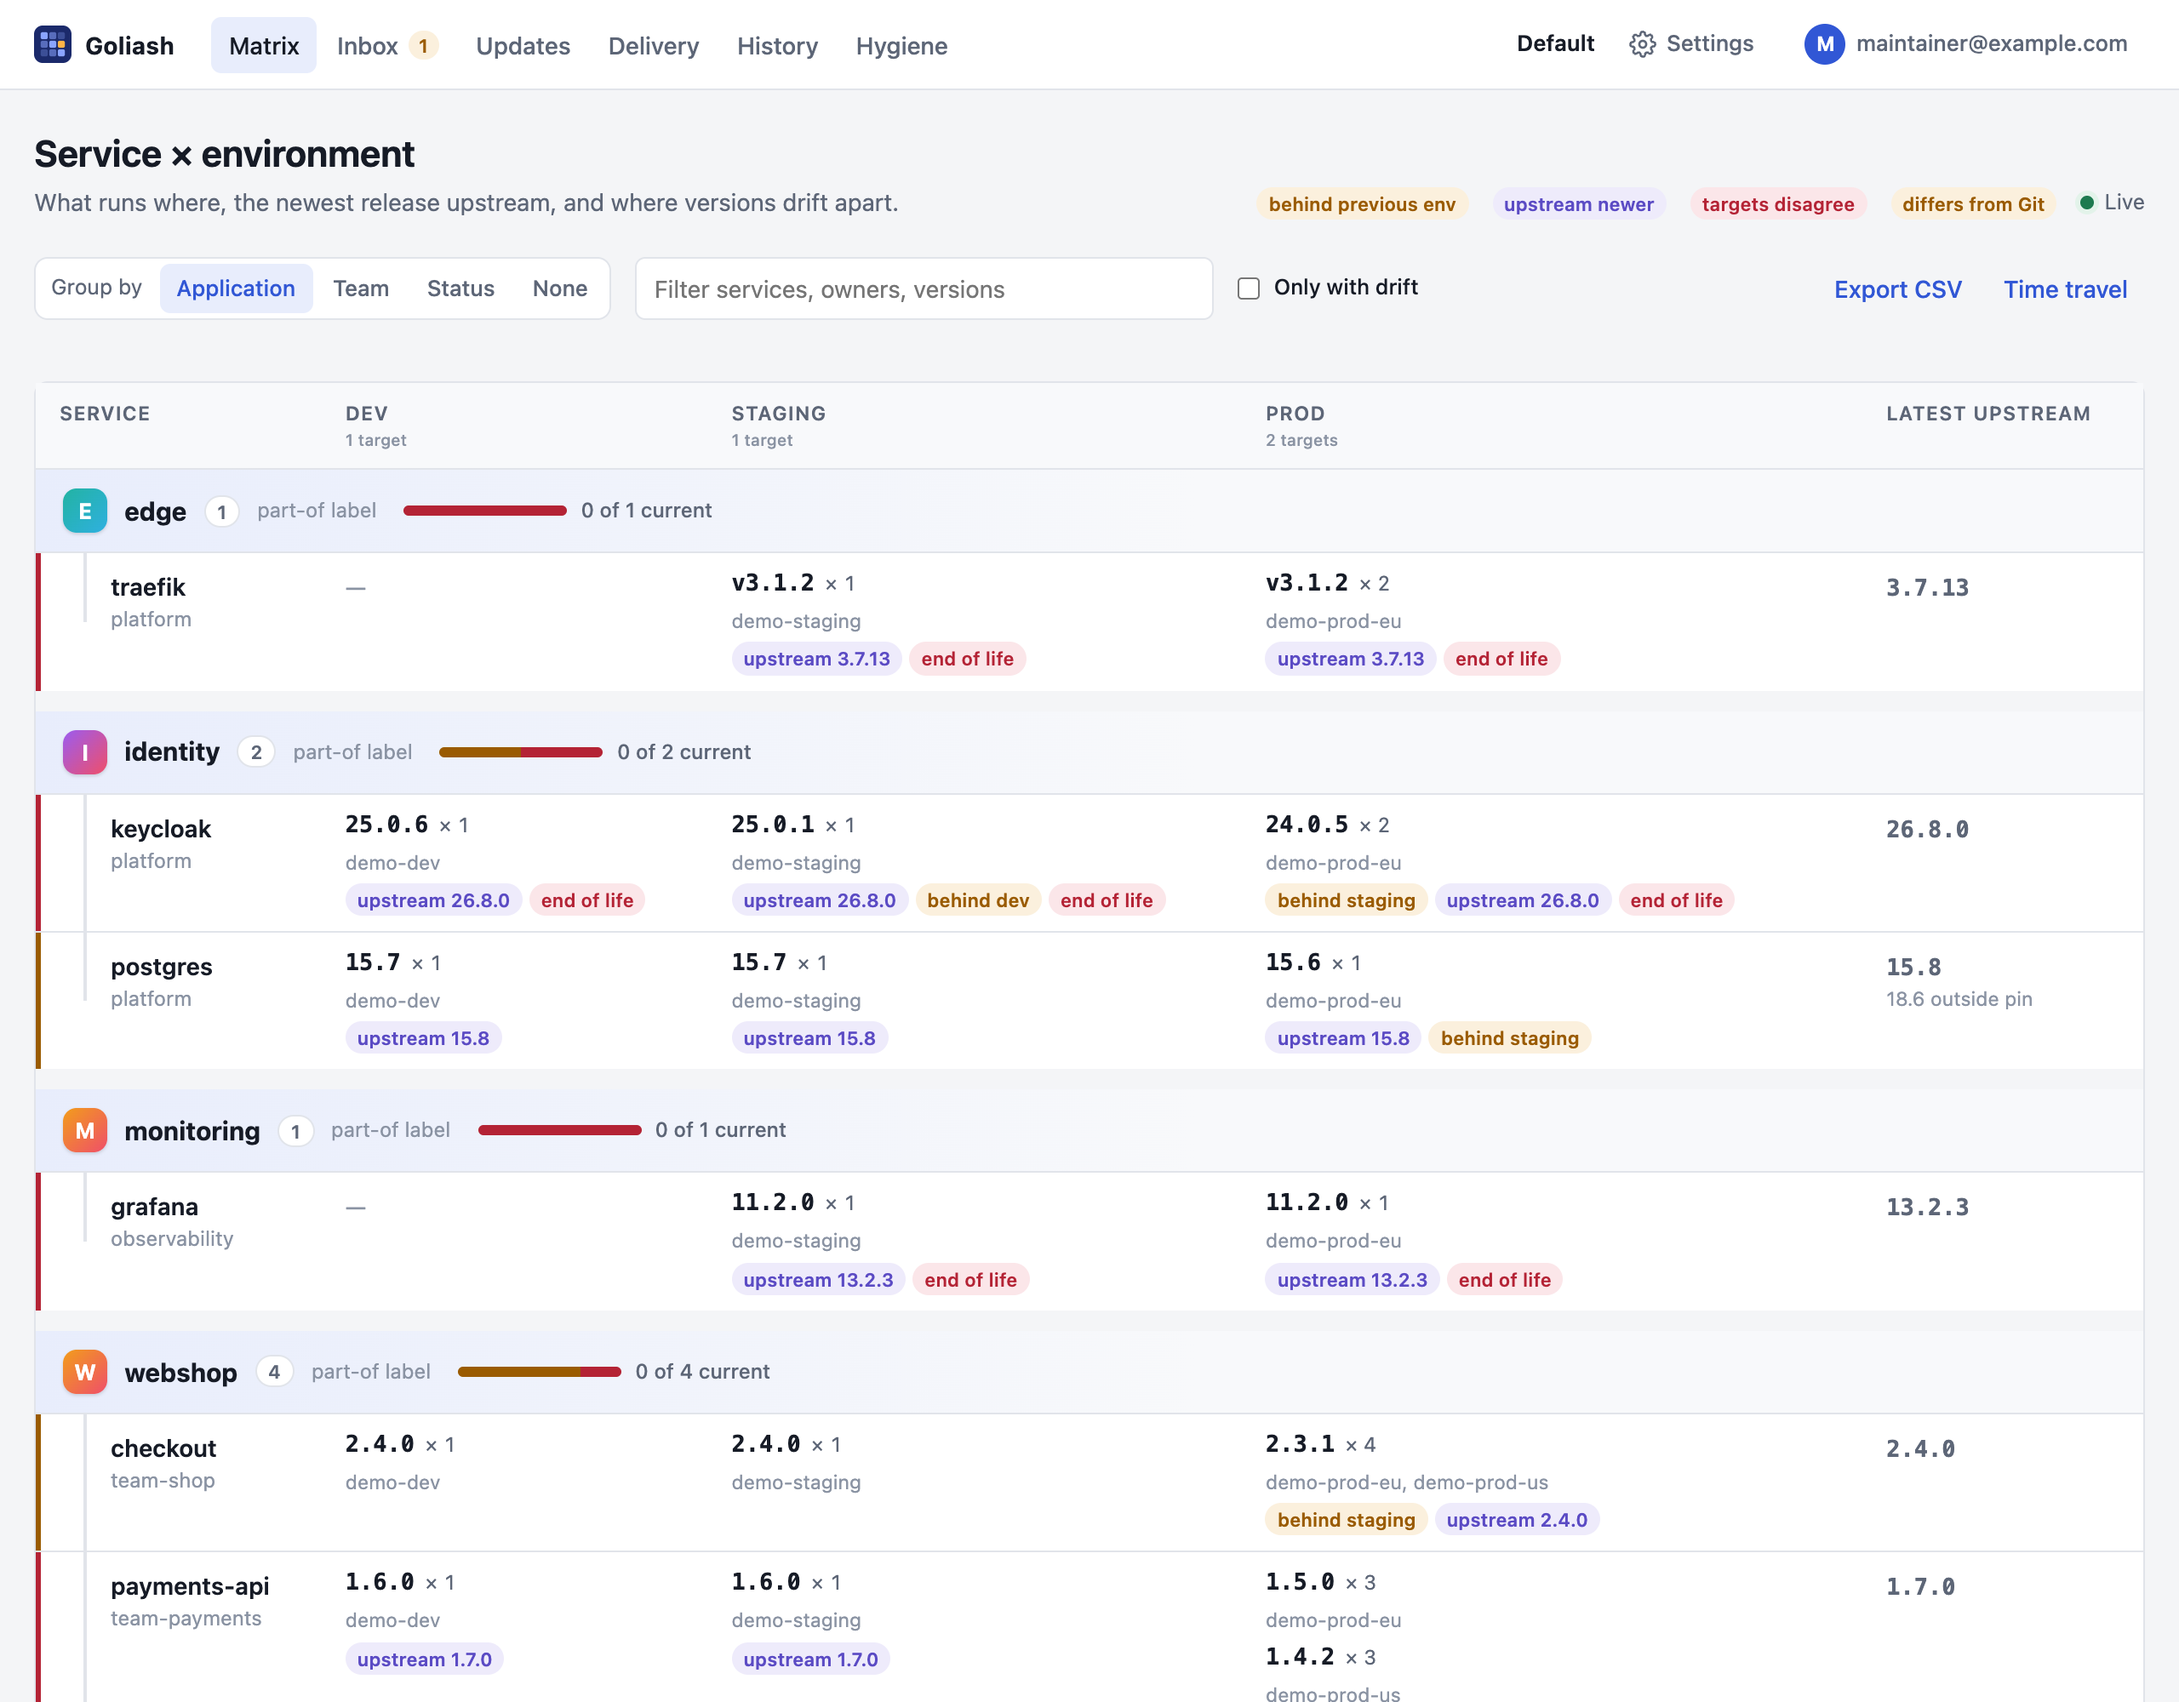
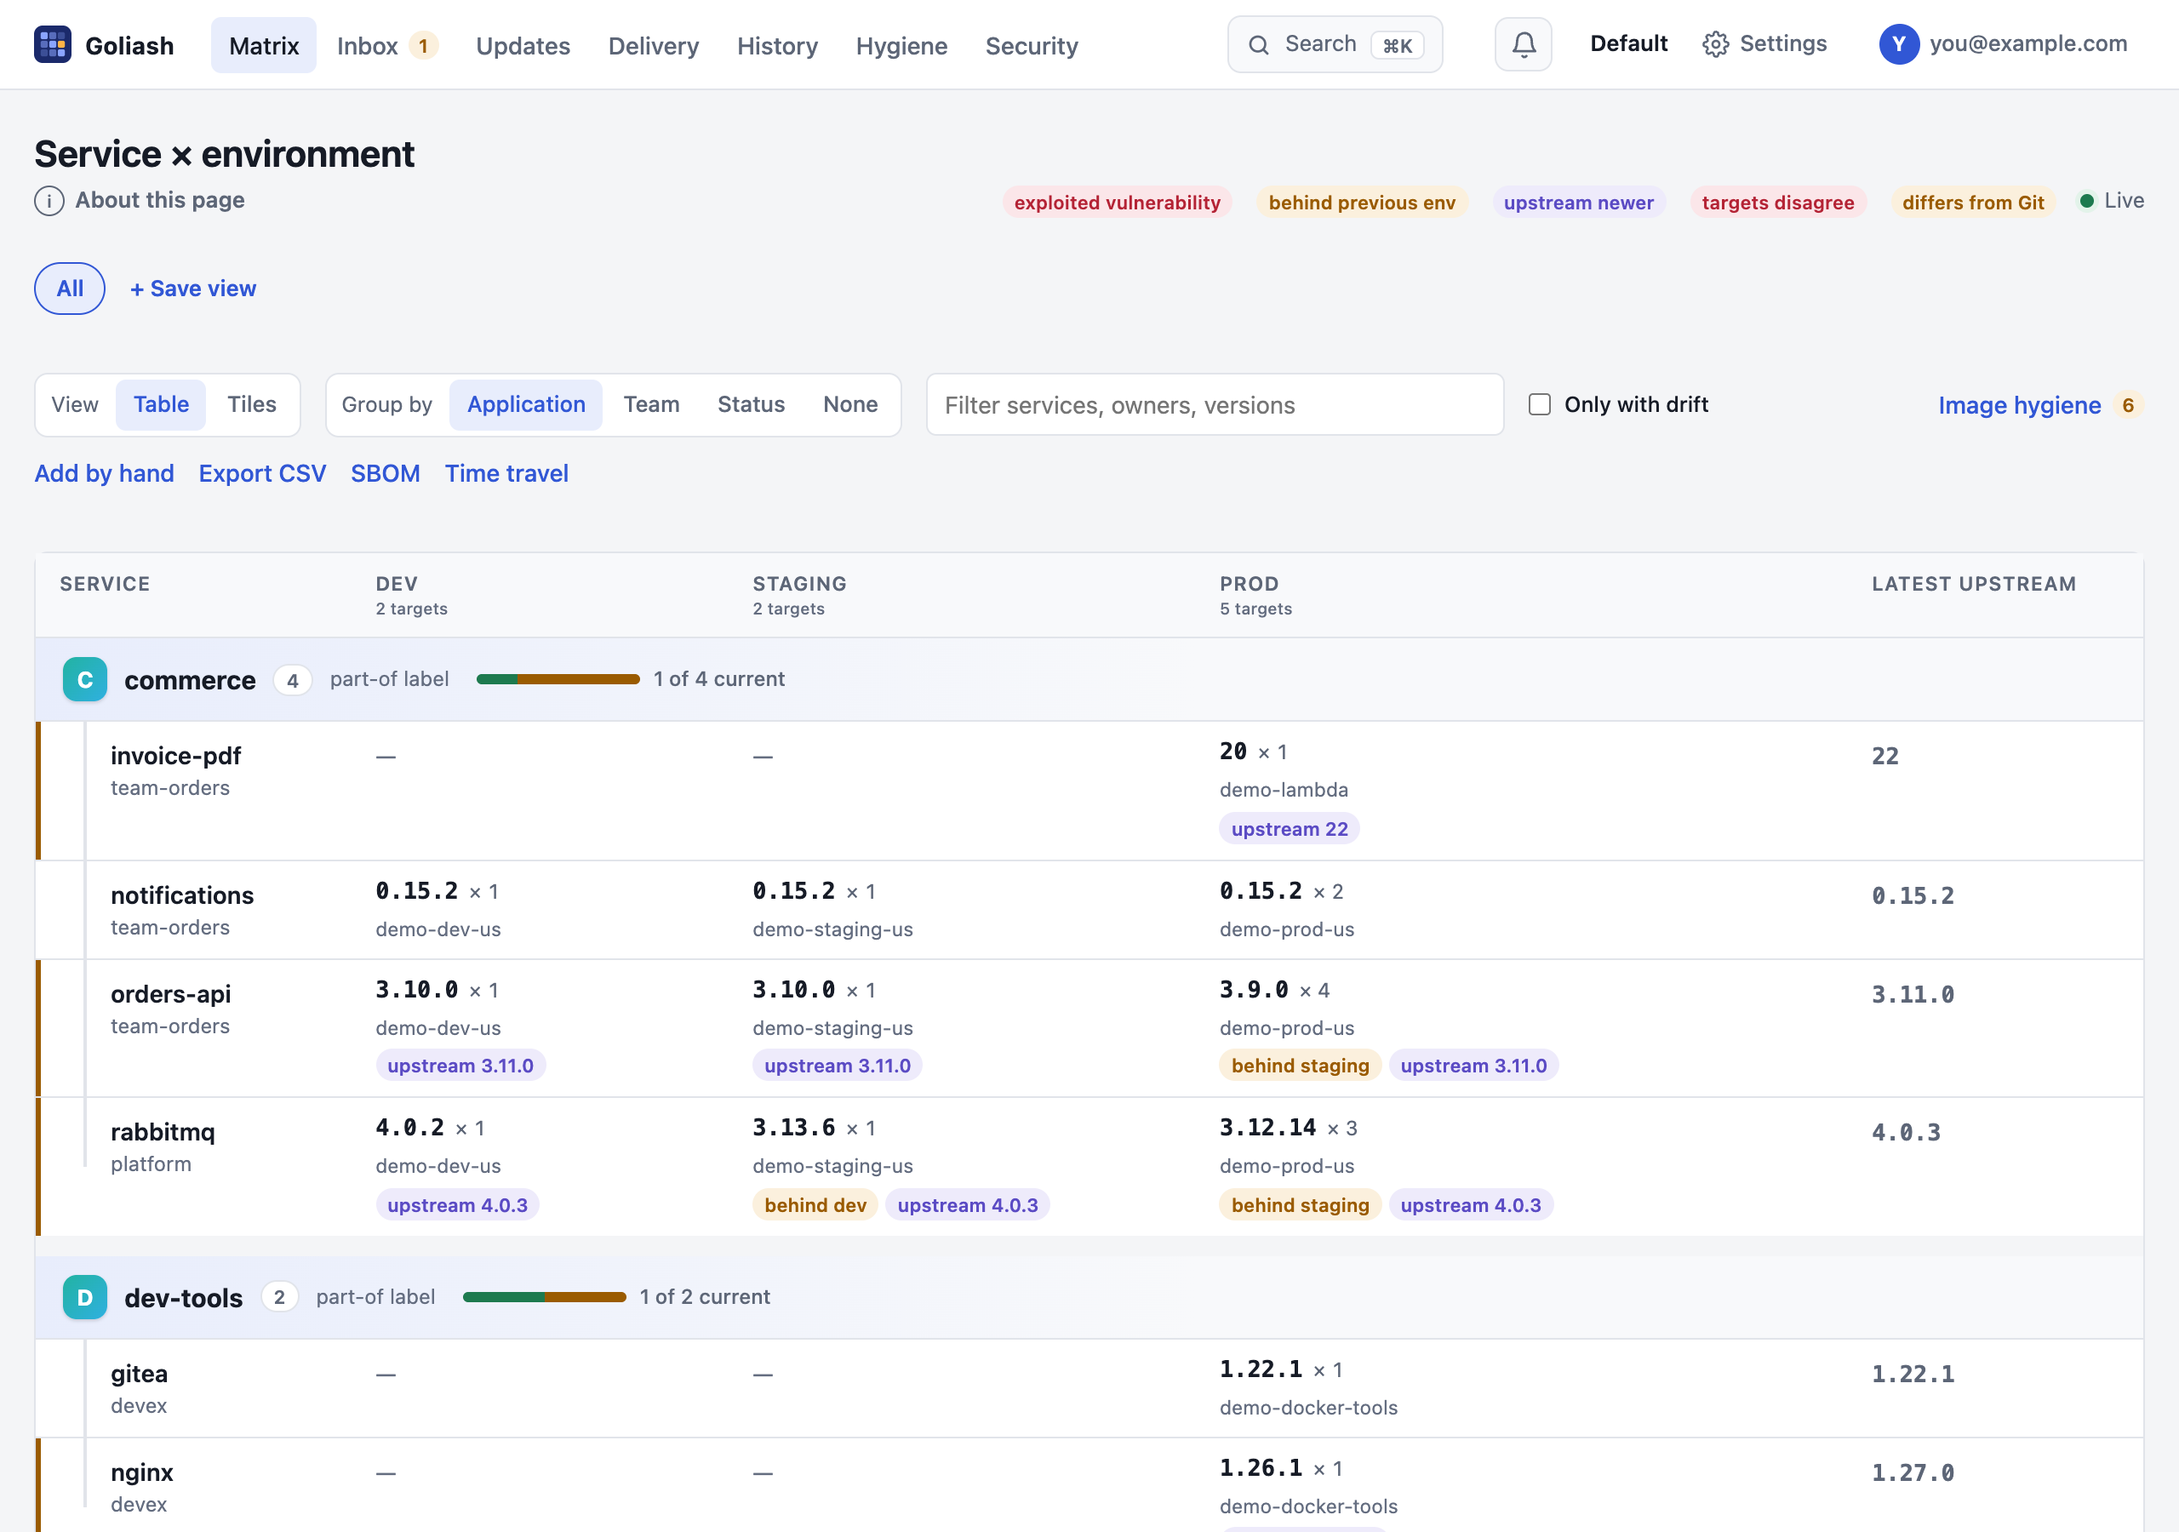
docs: fresh screenshots, and the pull request preview
Screenshots of the matrix, Updates, Delivery, Security, tiles, a service, the
Applications, a target and the Argo CD panel retaken from the demo as the pages
are now (About this page, info icons, Argo CD, Open PR), and a new one of the
pull request preview on the landing page and in the Argo CD guide. Alt texts
follow.

diff --git a/website/src/content/docs/guide/versions.md b/website/src/content/docs/guide/versions.md
@@ -18,7 +18,7 @@ containers run. It lists that repository's tags and keeps the newest versions th
 New services are checked within a minute, then every hour. **Check upstream now** on a service page, or
 `goliash check`, checks at once.
 
-![A service page: versions running per environment with drift and end-of-life badges, and the upstream releases with their release notes](../../../assets/service.png)
+![A service page: its team, upstream and the latest acceptable release; the Argo CD panel with the applications that deploy it, synced or out of sync, with Open PR → 1.7.0; and its versions over time per environment and cluster](../../../assets/service.png)
 
 ## Moving tags
 
@@ -172,7 +172,7 @@ too. Updates put off are kept apart under *Acknowledged*.
 The same list is `GET /api/v1/updates` and the MCP tool `updates`, for an assistant to plan with. A notification rule
 with the upgrade plan sends it every week; see [Upgrade plan](/guide/notifications/#upgrade-plan).
 
-![The Updates page: tiles counting end-of-life, major and minor upgrades, and a list of services with the running version, the version to move to, why, and a Put off menu](../../../assets/updates.png)
+![The Updates page: tiles counting all, major, minor and patch upgrades, and a list of services with the running version, the version to move to, why, how long it has been open, Open PR where Argo CD deploys it, and Put off](../../../assets/updates.png)
 
 ## Promotions and delivery
 
@@ -182,7 +182,7 @@ time**: which version ran in each environment (one lane per target where an envi
 thirty days; hover a bar for its dates. The charts are drawn on the server, follow the light or dark theme and need
 no script.
 
-![The Delivery page: versions waiting for promotion with the releases they bring, and versions per environment with lead times over the last 30 days](../../../assets/delivery.png)
+![The Delivery page: deploys per week as stacked bars by environment, and open drift per day as lines over gradient areas](../../../assets/delivery.png)
 
 The **Delivery** page lists every version that runs in one environment and waits for the next, longest waiting
 first, with the releases a promotion would bring and their release notes. When both versions' images have an SBOM,

diff --git a/website/src/content/docs/guide/apps.md b/website/src/content/docs/guide/apps.md
@@ -6,7 +6,7 @@ description: 'Where applications and teams come from, label conventions, how to 
 Goliash groups services two ways: by **application** (what a service is part of: a webshop, an identity stack) and by
 **team** (who owns it). The matrix, tiles, updates, upgrade plans and notification rules all use both.
 
-![The Applications page: edge, identity, monitoring and webshop as cards, edged in their state's colour, each with where its name comes from, its team, its services with their state, and fields to rename it or give all its services a team](../../../assets/apps.png)
+![The Applications page: applications as cards, edged in their state's colour, each with where its name comes from, its team, its services with their state, and an Edit button to rename it or give all its services a team](../../../assets/apps.png)
 
 ## Where applications come from
 

diff --git a/website/src/content/docs/guide/argocd.md b/website/src/content/docs/guide/argocd.md
@@ -39,6 +39,8 @@ promotions: next to a version that runs in staging and waits for prod, **Open
 PR → prod** pins that version in the repository of prod's application (one button per cluster when several run it),
 saying since when it has run in staging.
 
+![A pull request preview: the repository github.com/acme/deploy, the branch goliash/checkout-2.4.0-prod from main, the title, the kustomization.yaml change from newTag 2.3.1 to 2.4.0, and the description](../../../assets/gitops-preview.png)
+
 **Open PR** first shows a **preview**: the files that pin the image with the lines that change, the branch, the
 title and the description, read from the repository and changing nothing; **Open the pull request** sends it. The
 public demo shows the preview with made-up repositories and opens nothing.
